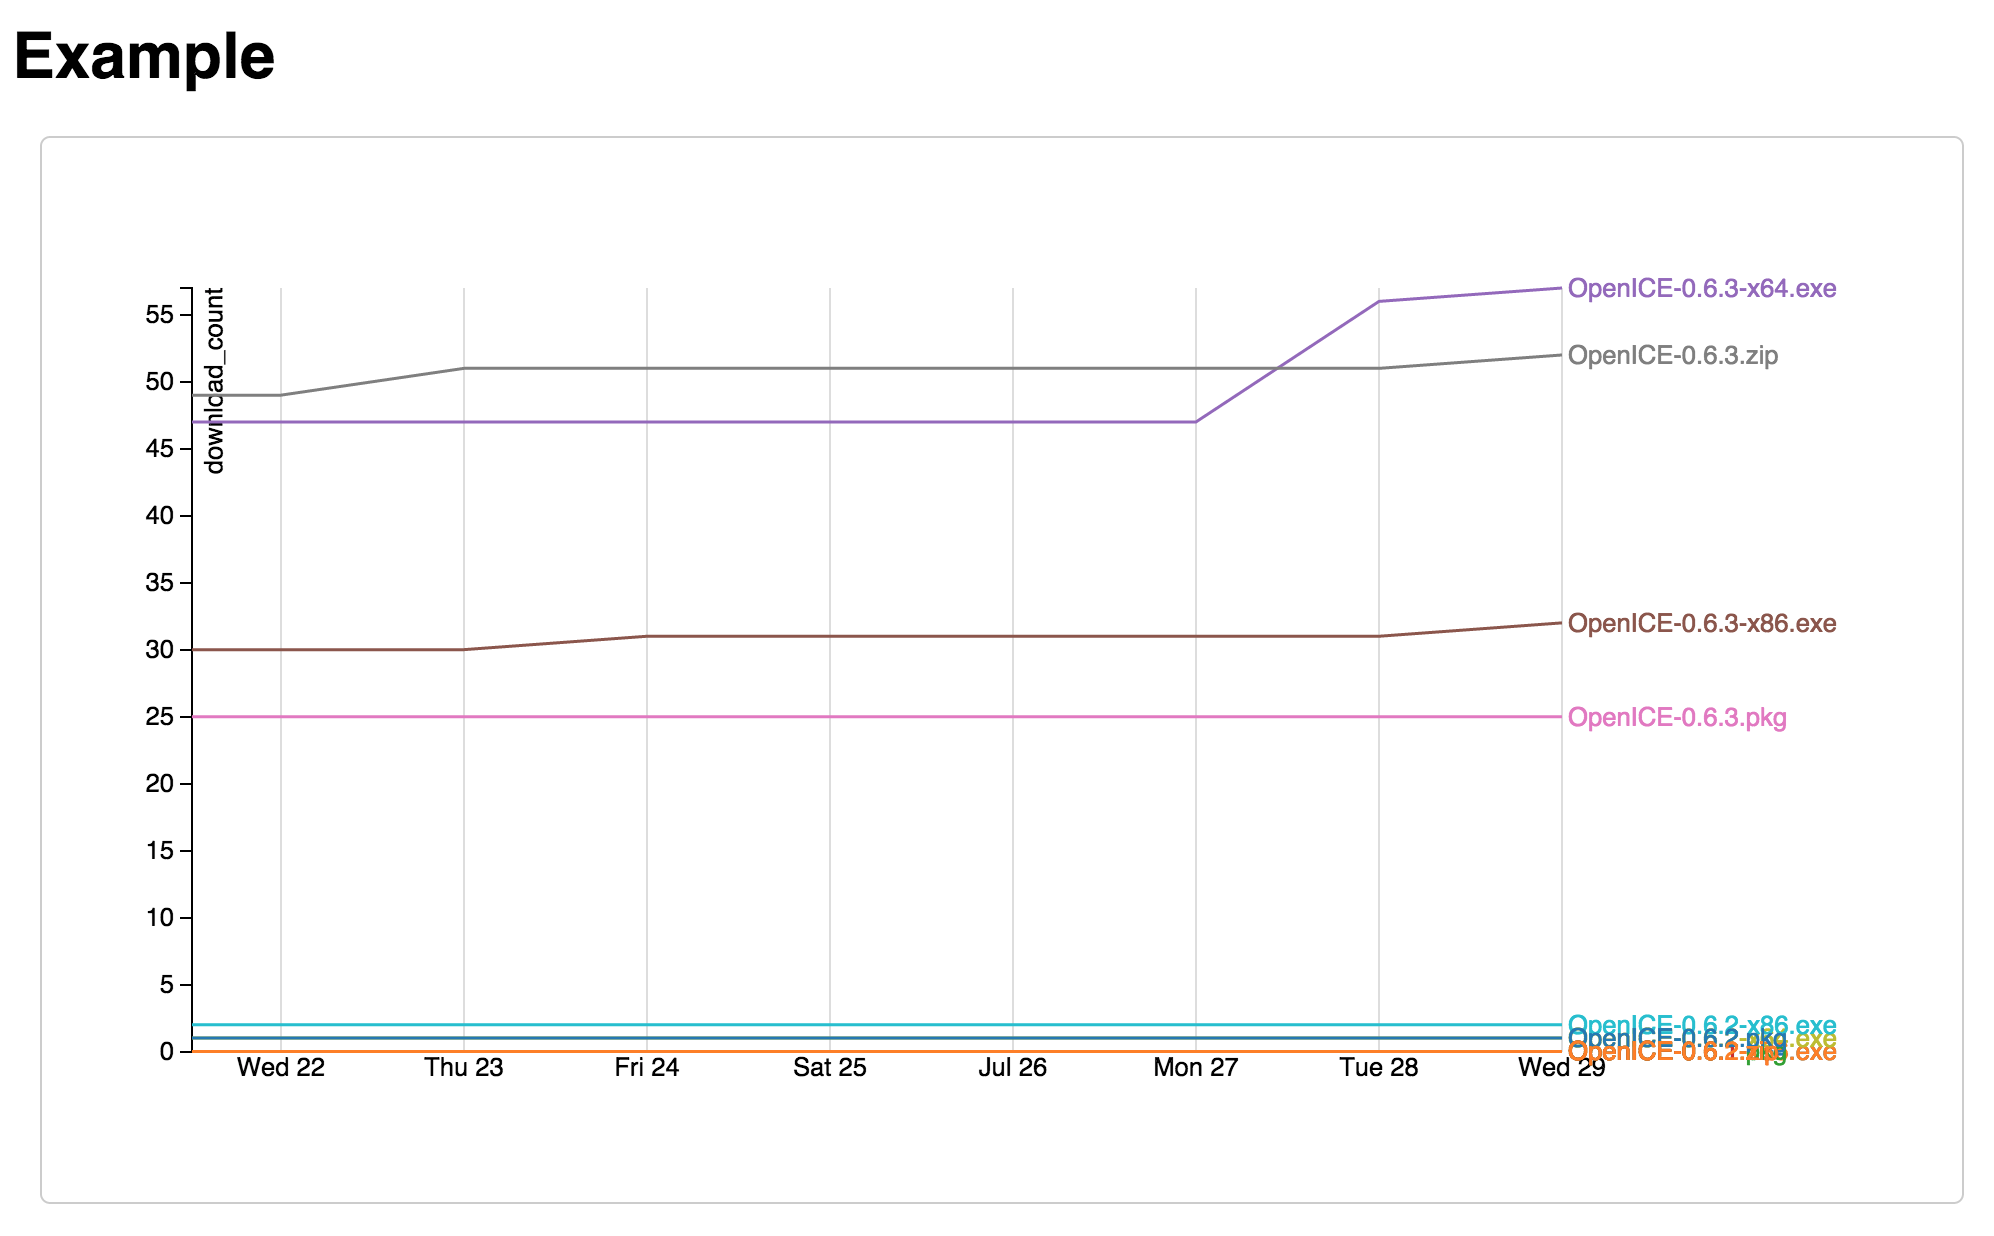
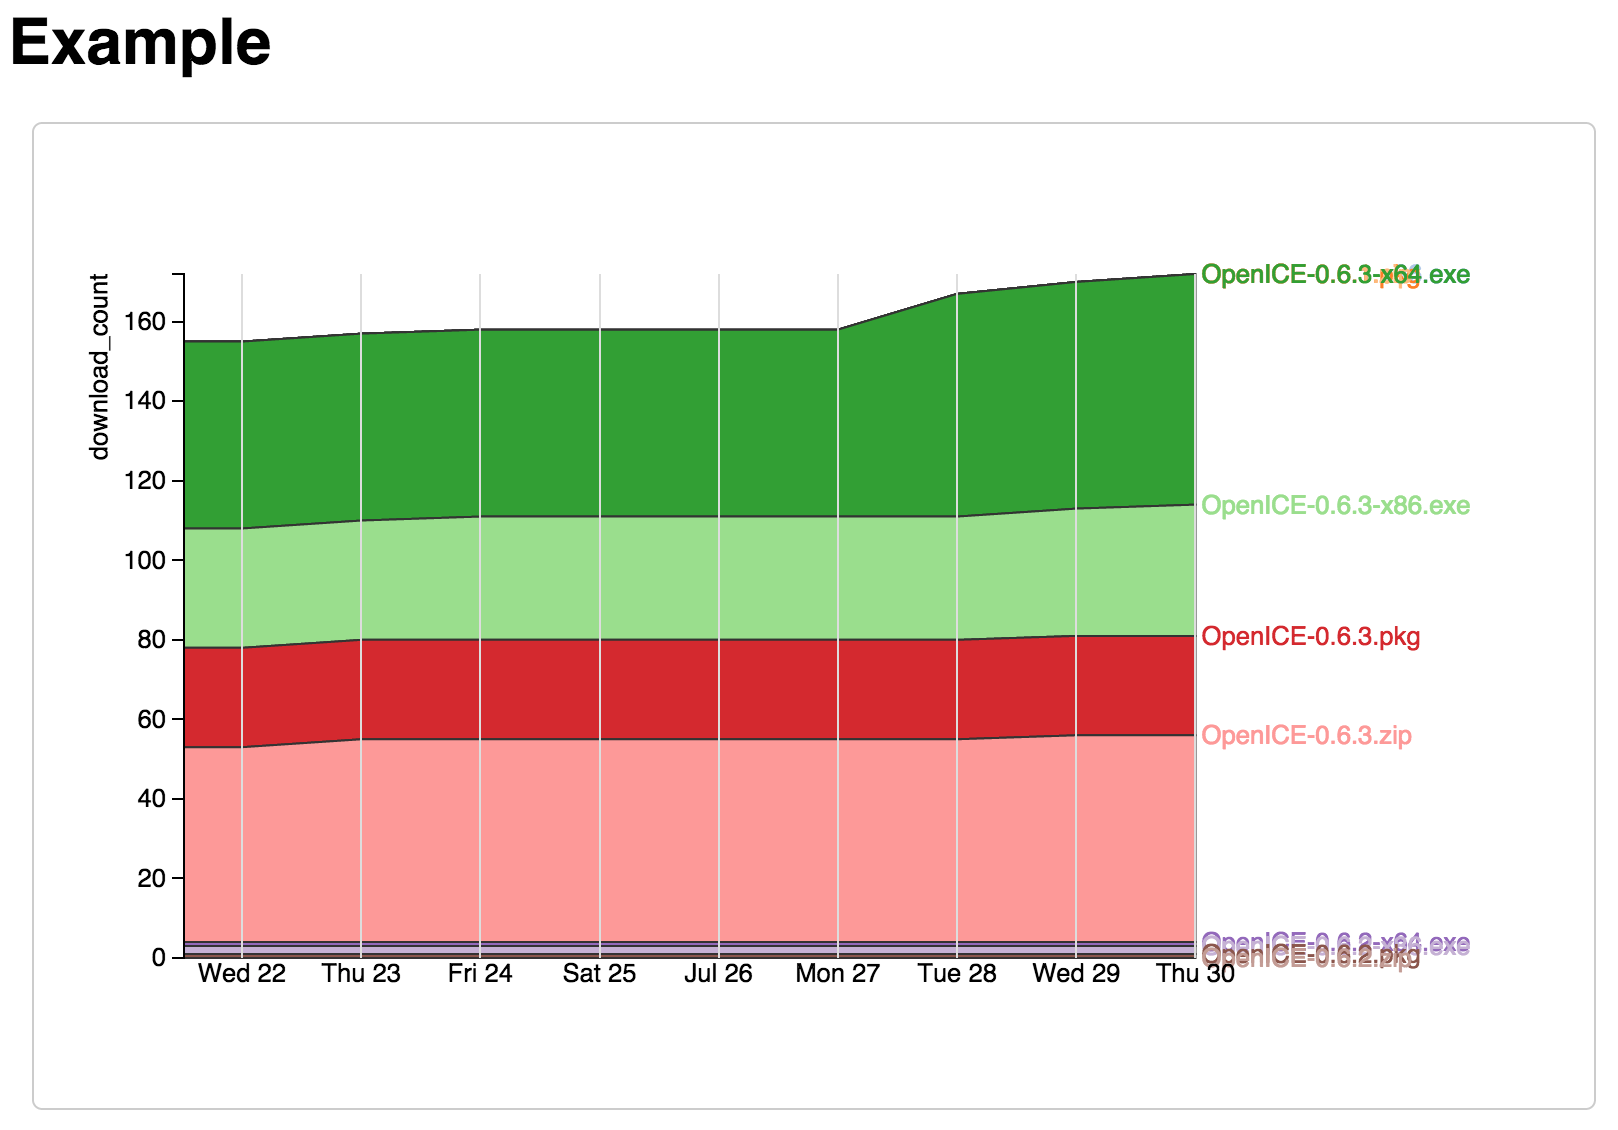
changed example graph to a stacked layout

diff --git a/examples/example.js b/examples/example.js
@@ -4,7 +4,6 @@ var url = 'https://www.openice.info/files/github-downloads-data.txt';
 
 function getDownloadsData (url, callback) {
     function parseDownloads (data) {
-
         var formattedData = data.map(function (obj) {
             var newInsert = [];
             obj.assets.forEach(function (value, index, array) {
@@ -38,7 +37,7 @@ function getDownloadsData (url, callback) {
 }
 
 function graph (data) {
-    console.log(data);
+    var assets = d3.nest().key(function (d) { return d.series; }).entries(data);
 
     data.forEach(function (value) {
         value.dateRetrieved = d3.time.format.iso.parse(value.dateRetrieved);
@@ -59,8 +58,7 @@ function graph (data) {
                     .range([0, w])
                     .domain(d3.extent(data, function(d) { return d.dateRetrieved; }));
     var yScale = d3.scale.linear()
-                    .range([h, 0])
-                    .domain([0, d3.max(data, function(d) { return d.download_count; })]);
+                    .range([h, 0]);
 
     var xAxis = d3.svg.axis()
                       .scale(xScale)
@@ -71,12 +69,32 @@ function graph (data) {
                       .scale(yScale)
                       .orient("left");
 
+    var stack = d3.layout.stack()
+                  .offset("zero")
+                  .values(function (d) { return d.values; })
+                  .x(function (d) { return xScale(d.dateRetrieved); })
+                  .y(function (d) { return d.download_count; })
+                  .order("reverse");
+    stack(assets);
+
+    var maxy = 0;
+    assets.forEach(function (v) {
+        v.values.forEach(function (d) { maxy = ((d.y + d.y0) > maxy ? (d.y + d.y0) : maxy); });
+    });
+    yScale.domain([0, maxy]);
+
+    var area = d3.svg.area()
+                 .interpolate("linear")
+                 .x(function (d) { return xScale(d.dateRetrieved); })
+                 .y0(function (d) { return yScale(d.y0); })
+                 .y1(function (d) { return yScale(d.y0 + d.y); });
+
     var line = d3.svg.line()
                      .interpolate("linear")
                      .x(function(d) { return xScale(d.dateRetrieved); })
                      .y(function(d) { return yScale(d.download_count); });
 
-    var color = d3.scale.category10();
+    var color = d3.scale.category20();
 
     var svg = d3.select("#graph-container")
                 .append("svg")
@@ -84,6 +102,17 @@ function graph (data) {
                 .attr("height", th)
               .append("g")
                 .attr("transform", "translate(" + margin.left + "," + margin.top + ")");
+
+    var asset = svg.selectAll(".asset")
+                   .data(assets)
+                 .enter().append("g")
+                   .attr("class", "asset");
+
+    asset.append("path")
+         .attr("class", "path")
+         .attr("d", function (d) { return area(d.values); })
+         .style("fill", function (d) { return color(d.key); })
+         .style("stroke", "#333");
 
     svg.append("g")
        .attr("class", "x axis")
@@ -95,33 +124,17 @@ function graph (data) {
        .call(yAxis)
      .append("text")
        .attr("transform", "rotate(-90)")
-       .attr("y", 6)
-       .attr("dy", ".71em")
+       .attr("dy", "-3em")
        .style("text-anchor", "end")
        .text("download_count");
 
-    var assets = d3.nest().key(function (d) { return d.series; }).entries(data);
-
-    console.log(assets);
-
-    var asset = svg.selectAll(".asset")
-                   .data(assets)
-                 .enter().append("g")
-                   .attr("class", "asset");
-
-    asset.append("path")
-         .attr("class", "line")
-         .attr("d", function(d) { return line(d.values); })
-         .style("stroke", function(d, i) { return color(i); });
-
     asset.append("text")
          .datum(function(d) { return { key: d.key, values: d.values[d.values.length - 1] }; })
-         .attr("transform", function(d) { return "translate(" + xScale(d.values.dateRetrieved) + "," + yScale(d.values.download_count) + ")"; })
+         .attr("transform", function(d) { return "translate(" + xScale(d.values.dateRetrieved) + "," + yScale(d.values.y + d.values.y0) + ")"; })
          .attr("x", 3)
          .attr("dy", ".35em")
          .text(function(d) { return d.key; })
-         .style("fill", function (d, i) { return color(i); });
-
+         .style("fill", function (d, i) { return color(d.key); });
 }
 
 getDownloadsData(url, function (data) {

diff --git a/examples/example.css b/examples/example.css
@@ -31,3 +31,7 @@ body {
   fill: none;
   stroke: #DDD;
 }
+
+.path {
+  z-index: -1;
+}
